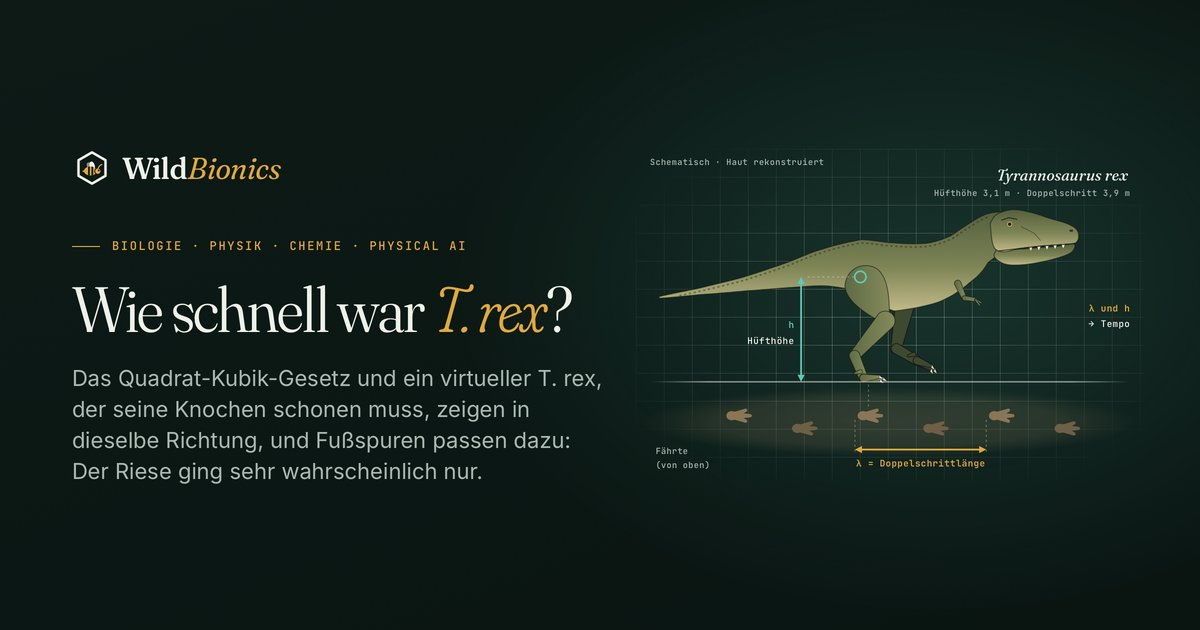
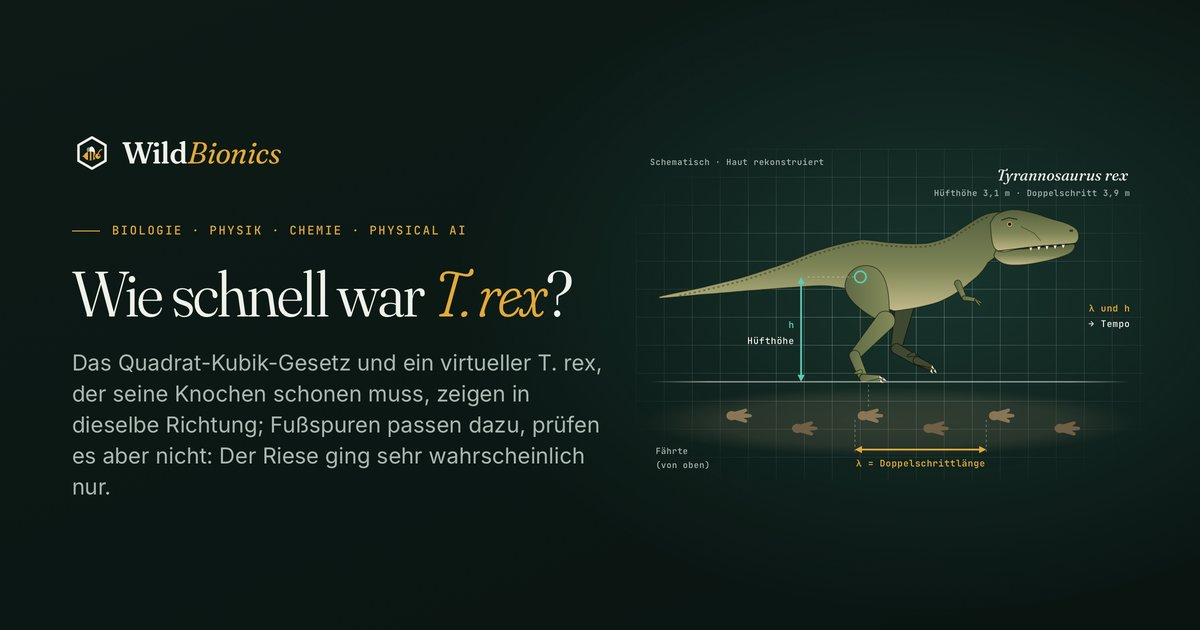
Review suggestions: footprints consistent but cannot test, Buckley hedge, 1 m/s gap (EN + DE)

Changed region(s): [[0.0617, 0.4222, 0.4933, 0.7841], [0.0617, 0.2111, 0.2467, 0.3016], [0.0617, 0.3619, 0.4008, 0.3921]]

diff --git a/_articles/trex-running.de.md b/_articles/trex-running.de.md
@@ -5,12 +5,12 @@ ref: trex-running
 title: "Wie schnell war T. rex? Fährten, Knochen und Physik"
 short_title: "Tempo von T. rex"
 kicker: "Artikel · Paläobiologie"
-description: "Konnte T. rex rennen? Ein Knochenspannungsmodell sagt: Er ging wahrscheinlich nur, und Fußspuren passen ins Bild. Woher wir das wissen – von Physik bis Chemie."
-dek: "Sieben Tonnen auf zwei Beinen: Wie schnell war Tyrannosaurus rex? Die Schätzungen reichten einst vom gemächlichen Gang bis zum Sprint mit 20 Metern pro Sekunde. Heute weisen die Physik der Skalierung und ein Computermodell, das sich zu bewegen lernt, ohne seine Knochen zu überlasten, in dieselbe Richtung, und versteinerte Fußspuren passen ins Bild – der Riese ging sehr wahrscheinlich nur. Dieser Artikel zeigt, woher wir das wissen und was die Chemie versteinerter Knochen verraten kann und was nicht."
+description: "Konnte T. rex rennen? Ein Knochenspannungsmodell sagt: Er ging wahrscheinlich nur; Fußspuren passen dazu, prüfen es aber nicht. Woher wir das wissen."
+dek: "Sieben Tonnen auf zwei Beinen: Wie schnell war Tyrannosaurus rex? Die Schätzungen reichten einst vom gemächlichen Gang bis zum Sprint mit 20 Metern pro Sekunde. Heute weisen die Physik der Skalierung und ein Computermodell, das sich zu bewegen lernt, ohne seine Knochen zu überlasten, in dieselbe Richtung; versteinerte Fußspuren sind damit vereinbar, können es aber nicht prüfen – der Riese ging sehr wahrscheinlich nur. Dieser Artikel zeigt, woher wir das wissen und was die Chemie versteinerter Knochen verraten kann und was nicht."
 date: 2026-10-08
 permalink: /de/artikel/t-rex-laufen/
 image: /assets/og/trex-running-de.jpg
-og: { eyebrow: "Biologie · Physik · Chemie · Physical AI", title: "Wie schnell war <em>T. rex</em>?", sub: "Das Quadrat-Kubik-Gesetz und ein virtueller T. rex, der seine Knochen schonen muss, zeigen in dieselbe Richtung, und Fußspuren passen dazu: Der Riese ging sehr wahrscheinlich nur.", title_px: 64 }
+og: { eyebrow: "Biologie · Physik · Chemie · Physical AI", title: "Wie schnell war <em>T. rex</em>?", sub: "Das Quadrat-Kubik-Gesetz und ein virtueller T. rex, der seine Knochen schonen muss, zeigen in dieselbe Richtung; Fußspuren passen dazu, prüfen es aber nicht: Der Riese ging sehr wahrscheinlich nur.", title_px: 64 }
 image_alt: "Ein gehender Tyrannosaurus rex in Seitenansicht mit waagerechtem Rumpf und langem Schwanz, darunter eine Reihe dreizehiger Fußabdrücke. Eingezeichnet sind die Doppelschrittlänge λ zwischen zwei Abdrücken desselben Fußes und die Hüfthöhe h."
 hero_figure: svg/trex-running.svg
 hero_caption: "<span class=\"caption__label\">Abb. 1</span> Von der Fußspur zur Geschwindigkeit. Ein gehender Tyrannosaurus rex hält den Rumpf waagerecht, den langen Schwanz hinter der Hüfte. Eine Fährte – hier schematisch; von T. rex selbst ist keine bekannt – hält die Doppelschrittlänge λ fest, den Abstand zweier Abdrücke desselben Fußes, und die Größe der Abdrücke liefert eine Schätzung der Hüfthöhe h. Zusammen ergeben sie eine Schätzung der Geschwindigkeit. Die Körperbedeckung ist eine Rekonstruktion: Hautabdrücke von Tyrannosauriden zeigen Schuppen."
@@ -373,7 +373,7 @@ In dieser Form geben William Sellers und Phillip Manning die Regel an [9](#ref-9
 **Die Weichgewebe-Kontroverse.** Kann ursprüngliches organisches Material mehr als 66 Millionen Jahre überdauern? Hier sind sich die Forschenden uneinig, und die Frage ist offen.
 
 - **Die Argumente für eine Erhaltung.** 2005 lösten Mary Schweitzer und Kollegen das Mineral aus einem Beinknochen von T. rex (Exemplar MOR 1125) und fanden durchsichtige, flexible, hohle Strukturen, die wie Blutgefäße aussahen, mit zellähnlichen Mikrostrukturen [21](#ref-21){:.cite}. 2007 berichteten sie, dass Kollagen I in geringen Konzentrationen erhalten sei [17](#ref-17){:.cite}, und John Asara und Kollegen berichteten über Proteinsequenzen aus dem 68 Millionen Jahre alten T.-rex-Knochen, gewonnen mit Massenspektrometrie [22](#ref-22){:.cite}. Schweitzer und Kollegen schlugen später eine chemische Erklärung vor: Eisen aus dem Blut könnte Proteine vernetzen und schützen. In einem Modell aus Blutgefäßen des Straußes machte Hämoglobin das Gewebe mehr als 200-mal stabiler [23](#ref-23){:.cite}. 2019 berichteten Elizabeth Boatman, Schweitzer und Kollegen über Kollagen I in den äußeren Schichten von Blutgefäßen eines zweiten T. rex (USNM 555000) und argumentierten, dass nichtenzymatische Vernetzungen – durch Fenton-Chemie mit Eisen und durch Glykierung – sie wahrscheinlich stabilisiert haben [24](#ref-24){:.cite}.
-- **Die Argumente dagegen.** Thomas Kaye und Kollegen fanden ähnliche Überzüge in vielen fossilen Knochen und deuteten sie als **bakterielle Biofilme**; eine Radiokarbondatierung wies auf einen relativ jungen Ursprung hin, und die runden „Zellen“ bestimmten sie als aus Pyrit entstandene Eisen-Sauerstoff-Kügelchen [25](#ref-25){:.cite}. Mike Buckley und Kollegen wandten Prüfverfahren aus der Forschung an alter DNA auf die Proteindaten an: Die Mastodon-Proben bestanden sie, die T.-rex-Daten nach ihrer Einschätzung nicht [26](#ref-26){:.cite}. Evan Saitta und Kollegen gruben den Knochen eines Horndinosauriers mit aseptischen Methoden aus und fanden, dass sich seine „Weichgewebe“ chemisch von Kollagen unterschieden, während im Knochen eine reiche Gemeinschaft von Mikroben lebte [18](#ref-18){:.cite}.
+- **Die Argumente dagegen.** Thomas Kaye und Kollegen fanden ähnliche Überzüge in vielen fossilen Knochen und deuteten sie als **bakterielle Biofilme**; eine Radiokarbondatierung wies auf einen relativ jungen Ursprung hin, und die runden „Zellen“ bestimmten sie als aus Pyrit entstandene Eisen-Sauerstoff-Kügelchen [25](#ref-25){:.cite}. Mike Buckley und Kollegen wandten Prüfverfahren aus der Forschung an alter DNA auf die Proteindaten an: Die Mastodon-Proben bestanden sie, die T.-rex-Daten den Befunden nach wohl nicht [26](#ref-26){:.cite}. Evan Saitta und Kollegen gruben den Knochen eines Horndinosauriers mit aseptischen Methoden aus und fanden, dass sich seine „Weichgewebe“ chemisch von Kollagen unterschieden, während im Knochen eine reiche Gemeinschaft von Mikroben lebte [18](#ref-18){:.cite}.
 
 Zwischen den Lagern steht eine Neuauswertung der T.-rex-Massenspektren durch Marshall Bern und Kollegen: Sie fand übliche Laborverunreinigungen und Bodenbakterien – aber auch vogelähnliches Hämoglobin und Kollagen [27](#ref-27){:.cite}. Die Debatte ist nicht entschieden: Selbst die Studie von 2019, die über Kollagen berichtet, nennt den Erhalt ursprünglichen Weichgewebes umstritten [24](#ref-24){:.cite}.
 
@@ -473,7 +473,7 @@ Was das Ergebnis lehrt:
 Probier es selbst:
 
 - Nimm die Beinlänge von „Sue“, 3,30 m, als ungefähre Hüfthöhe für den ausgewachsenen T. rex: Setze `HIP_TREX = 3.30`. Die skalierte Fährte sinkt auf 6,7 km/h, und die Grenze des Gehens steigt auf 5,7 m/s – bei gleichem Doppelschritt ergibt ein größeres Tier eine geringere Geschwindigkeit und Froude-Zahl.
-- Setze den Doppelschritt des reinen Muskelmodells ein, 9,56 m: Ändere `(3.88, HIP_TREX)` in `(9.56, HIP_TREX)`. Die Regel liefert nun 9,0 m/s bei *Fr* = 2,66 – etwa 12 % über den 8,0 m/s der Simulation; Sellers und Manning fanden, dass die simulierten Doppelschritte gut zur Regel passen [9](#ref-9){:.cite}. Ein solcher Doppelschritt ist aus keiner Tyrannosauridenfährte bekannt.
+- Setze den Doppelschritt des reinen Muskelmodells ein, 9,56 m: Ändere `(3.88, HIP_TREX)` in `(9.56, HIP_TREX)`. Die Regel liefert nun 9,0 m/s bei *Fr* = 2,66 – etwa 1 m/s schneller als die 8,0 m/s der Simulation; Sellers und Manning fanden, dass die simulierten Doppelschritte gut zur Regel passen [9](#ref-9){:.cite}. Ein solcher Doppelschritt ist aus keiner Tyrannosauridenfährte bekannt.
 
 {% include code-variant.html file="trex_speed.py" id="sue" replace="HIP_TREX = 3.10 " with="HIP_TREX = 3.30 " expect="6.7 5.7" %}
 {% include code-variant.html file="trex_speed.py" id="sprint" replace="(3.88, HIP_TREX)" with="(9.56, HIP_TREX)" expect="9.0 2.66" %}
@@ -500,6 +500,6 @@ Physical AI – verkörperte künstliche Intelligenz, also Maschinen, die in der
 
 ## Was wir noch nicht wissen
 
-Das Knochenspannungsmodell spricht für Gehen, frühere Muskelmodelle bezweifelten schon, dass T. rex schnell rennen konnte, und die bekannten Fußspuren passen ins Bild: Ein ausgewachsener T. rex rannte sehr wahrscheinlich nicht mit allen Füßen in der Luft [5](#ref-5){:.cite} [6](#ref-6){:.cite} – auch wenn die Fährten, von Verwandten mit kleineren Füßen hinterlassen, nur zeigen, wie diese gingen, nicht wie schnell sie sein konnten [7](#ref-7){:.cite}. Wie schnell er ging und wie sich seine Fortbewegung veränderte, während er vom leichten Jungtier zum Riesen heranwuchs, ist weiter umstritten, denn Muskeln und Sehnen bleiben fast nie erhalten, und jedes Modell hängt von Annahmen über sie ab [11](#ref-11){:.cite} [5](#ref-5){:.cite} [4](#ref-4){:.cite}. Mehr Fährten würden helfen: Die bekannten Tyrannosauridenfährten zeigen nur Gehen, und künftige Modelle können sie als Kontrolle nutzen [7](#ref-7){:.cite}.
+Das Knochenspannungsmodell spricht für Gehen, frühere Muskelmodelle bezweifelten schon, dass T. rex schnell rennen konnte, und die bekannten Fußspuren sind damit vereinbar, können es aber nicht prüfen: Ein ausgewachsener T. rex rannte sehr wahrscheinlich nicht mit allen Füßen in der Luft [5](#ref-5){:.cite} [6](#ref-6){:.cite} – auch wenn die Fährten, von Verwandten mit kleineren Füßen hinterlassen, nur zeigen, wie diese gingen, nicht wie schnell sie sein konnten [7](#ref-7){:.cite}. Wie schnell er ging und wie sich seine Fortbewegung veränderte, während er vom leichten Jungtier zum Riesen heranwuchs, ist weiter umstritten, denn Muskeln und Sehnen bleiben fast nie erhalten, und jedes Modell hängt von Annahmen über sie ab [11](#ref-11){:.cite} [5](#ref-5){:.cite} [4](#ref-4){:.cite}. Mehr Fährten würden helfen: Die bekannten Tyrannosauridenfährten zeigen nur Gehen, und künftige Modelle können sie als Kontrolle nutzen [7](#ref-7){:.cite}.
 
 Die Chemie fossiler Knochen bleibt ebenso offen. Neue Werkzeuge wie Synchrotron-Röntgenstrahlung erlauben es, Strukturen im Inneren eines Knochens abzubilden und ihre Chemie zu kartieren, und heilende Brüche, reich an neuen Blutgefäßen, könnten künftig gute Orte für die Suche nach erhaltenem Weichgewebe sein [3](#ref-3){:.cite}. Ob ursprüngliche Dinosaurierproteine Dutzende Millionen Jahre überdauern können, werden erst Studien entscheiden, die Verunreinigungen ausschließen und Erhaltungsmechanismen überprüfen [18](#ref-18){:.cite} [24](#ref-24){:.cite}.

diff --git a/_articles/trex-running.en.md b/_articles/trex-running.en.md
@@ -5,12 +5,12 @@ ref: trex-running
 title: "How Fast Was T. rex? Footprints, Bones and Physics"
 short_title: "T. rex speed"
 kicker: "Article · Palaeobiology"
-description: "Could T. rex run? A bone-stress model says it most likely only walked, and fossil footprints fit the picture. How we know – from physics to chemistry."
-dek: "Seven tonnes on two legs: how fast was Tyrannosaurus rex? Estimates once ranged from a stroll to a sprint at 20 metres per second. Today, the physics of scaling and a computer model that learns to move without overloading its bones point the same way, and fossil footprints fit the picture – the giant most likely walked. This article shows how we know, and what the chemistry of fossil bones can and cannot tell us."
+description: "Could T. rex run? A bone-stress model says it most likely only walked; footprints agree but cannot test it. How we know – from physics to chemistry."
+dek: "Seven tonnes on two legs: how fast was Tyrannosaurus rex? Estimates once ranged from a stroll to a sprint at 20 metres per second. Today, the physics of scaling and a computer model that learns to move without overloading its bones point the same way, and fossil footprints are consistent with it, though they cannot test it – the giant most likely walked. This article shows how we know, and what the chemistry of fossil bones can and cannot tell us."
 date: 2026-10-08
 permalink: /articles/trex-running/
 image: /assets/og/trex-running-en.jpg
-og: { eyebrow: "Biology · Physics · Chemistry · Physical AI", title: "How fast was <em>T. rex</em>?", sub: "The square–cube law and a virtual T. rex that must spare its bones point the same way, and footprints fit: the giant most likely walked.", title_px: 64 }
+og: { eyebrow: "Biology · Physics · Chemistry · Physical AI", title: "How fast was <em>T. rex</em>?", sub: "The square–cube law and a virtual T. rex that must spare its bones point the same way; footprints agree but cannot test it: the giant most likely walked.", title_px: 64 }
 image_alt: "A walking Tyrannosaurus rex in side view with a horizontal body and a long tail, and below it a line of three-toed footprints. The stride length λ between two prints of the same foot and the hip height h are marked."
 hero_figure: svg/trex-running.svg
 hero_caption: "<span class=\"caption__label\">Fig. 1</span> From footprints to speed. A walking Tyrannosaurus rex holds its body horizontal, with the long tail behind the hips. A trackway – drawn here schematically; none is known for T. rex itself – records the stride length λ, the distance between two prints of the same foot, and the size of the prints gives an estimate of the hip height h. Together they give an estimate of the speed. The body covering is a reconstruction: skin impressions of tyrannosaurids show scales."
@@ -373,7 +373,7 @@ This is the form William Sellers and Phillip Manning give [9](#ref-9){:.cite}. S
 **The soft-tissue controversy.** Can any original organic material survive for more than 66 million years? Here researchers disagree, and the question is open.
 
 - **The case for preservation.** In 2005, Mary Schweitzer and colleagues dissolved the mineral from a T. rex leg bone (specimen MOR 1125) and found transparent, flexible, hollow structures that looked like blood vessels, with cell-like microstructures [21](#ref-21){:.cite}. In 2007 they reported that collagen I was preserved in low concentrations [17](#ref-17){:.cite}, and John Asara and colleagues reported protein sequences from the 68-million-year-old T. rex bone, obtained by mass spectrometry [22](#ref-22){:.cite}. Schweitzer and colleagues later proposed a chemical explanation: iron from blood could cross-link and protect proteins. In an ostrich blood-vessel model, haemoglobin made the tissue more than 200 times more stable [23](#ref-23){:.cite}. In 2019, Elizabeth Boatman, Schweitzer and colleagues reported type I collagen in the outer layers of blood vessels from a second T. rex (USNM 555000) and argued that non-enzymatic cross-links – from Fenton chemistry with iron and from glycation – likely stabilised them [24](#ref-24){:.cite}.
-- **The case against.** Thomas Kaye and colleagues found similar coatings in many fossil bones and interpreted them as **bacterial biofilms**; carbon dating pointed to a relatively modern origin, and they identified the round "cells" as iron-oxygen spheres formed from pyrite [25](#ref-25){:.cite}. Mike Buckley and colleagues applied tests developed for ancient DNA to the protein data: the mastodon samples passed, while the T. rex data, they concluded, did not [26](#ref-26){:.cite}. Evan Saitta and colleagues dug up the bone of a horned dinosaur with aseptic methods and found that its "soft tissues" differed chemically from collagen, while the bone hosted an abundant microbial community [18](#ref-18){:.cite}.
+- **The case against.** Thomas Kaye and colleagues found similar coatings in many fossil bones and interpreted them as **bacterial biofilms**; carbon dating pointed to a relatively modern origin, and they identified the round "cells" as iron-oxygen spheres formed from pyrite [25](#ref-25){:.cite}. Mike Buckley and colleagues applied tests developed for ancient DNA to the protein data: the mastodon samples passed, while the evidence suggested that the T. rex data did not [26](#ref-26){:.cite}. Evan Saitta and colleagues dug up the bone of a horned dinosaur with aseptic methods and found that its "soft tissues" differed chemically from collagen, while the bone hosted an abundant microbial community [18](#ref-18){:.cite}.
 
 Between the two sides stands a reanalysis of the T. rex mass spectra by Marshall Bern and colleagues: it found common laboratory contaminants and soil bacteria – but also bird-like haemoglobin and collagen [27](#ref-27){:.cite}. The debate is not settled: even the 2019 study that reports collagen calls the persistence of original soft tissue controversial [24](#ref-24){:.cite}.
 
@@ -473,7 +473,7 @@ What the result teaches:
 Try it yourself:
 
 - Use the leg length of "Sue", 3.30 m, as an approximate hip height for the adult T. rex: set `HIP_TREX = 3.30`. The scaled trackway drops to 6.7 km/h and the walking limit rises to 5.7 m/s – for the same stride, a taller animal gets a lower speed and Froude number.
-- Put in the stride of the muscle-only model, 9.56 m: change `(3.88, HIP_TREX)` to `(9.56, HIP_TREX)`. The rule now gives 9.0 m/s at *Fr* = 2.66 – about 12 % above the 8.0 m/s of the simulation; Sellers and Manning found their simulated strides in good agreement with the rule [9](#ref-9){:.cite}. Such a stride is not known from any tyrannosaurid trackway.
+- Put in the stride of the muscle-only model, 9.56 m: change `(3.88, HIP_TREX)` to `(9.56, HIP_TREX)`. The rule now gives 9.0 m/s at *Fr* = 2.66 – about 1 m/s faster than the 8.0 m/s of the simulation; Sellers and Manning found their simulated strides in good agreement with the rule [9](#ref-9){:.cite}. Such a stride is not known from any tyrannosaurid trackway.
 
 {% include code-variant.html file="trex_speed.py" id="sue" replace="HIP_TREX = 3.10 " with="HIP_TREX = 3.30 " expect="6.7 5.7" %}
 {% include code-variant.html file="trex_speed.py" id="sprint" replace="(3.88, HIP_TREX)" with="(9.56, HIP_TREX)" expect="9.0 2.66" %}
@@ -500,6 +500,6 @@ Physical AI – embodied artificial intelligence: machines that sense and act in
 
 ## What we still do not know
 
-The bone-stress model points to walking, earlier muscle models already doubted that T. rex could run fast, and the known footprints fit this picture: an adult T. rex most likely did not run with all feet off the ground [5](#ref-5){:.cite} [6](#ref-6){:.cite} – although the trackways, made by relatives with smaller feet, only show how they walked, not how fast they could go [7](#ref-7){:.cite}. How fast it walked, and how its locomotion changed as it grew from a light juvenile to a giant, is still debated, because muscles and tendons are almost never preserved and every model depends on assumptions about them [11](#ref-11){:.cite} [5](#ref-5){:.cite} [4](#ref-4){:.cite}. More trackways would help: the known tyrannosaurid trackways record only walking, and future models can use them as a control [7](#ref-7){:.cite}.
+The bone-stress model points to walking, earlier muscle models already doubted that T. rex could run fast, and the known footprints are consistent with this, though they cannot test it: an adult T. rex most likely did not run with all feet off the ground [5](#ref-5){:.cite} [6](#ref-6){:.cite} – although the trackways, made by relatives with smaller feet, only show how they walked, not how fast they could go [7](#ref-7){:.cite}. How fast it walked, and how its locomotion changed as it grew from a light juvenile to a giant, is still debated, because muscles and tendons are almost never preserved and every model depends on assumptions about them [11](#ref-11){:.cite} [5](#ref-5){:.cite} [4](#ref-4){:.cite}. More trackways would help: the known tyrannosaurid trackways record only walking, and future models can use them as a control [7](#ref-7){:.cite}.
 
 The chemistry of fossil bones remains just as open. New tools such as synchrotron X-rays let researchers image structures inside a bone and map their chemistry, and healing fractures, rich in new blood vessels, may be a good place to look for preserved soft tissue in the future [3](#ref-3){:.cite}. Whether original dinosaur proteins can survive for tens of millions of years will take studies that rule out contamination and test mechanisms of preservation to decide [18](#ref-18){:.cite} [24](#ref-24){:.cite}.
